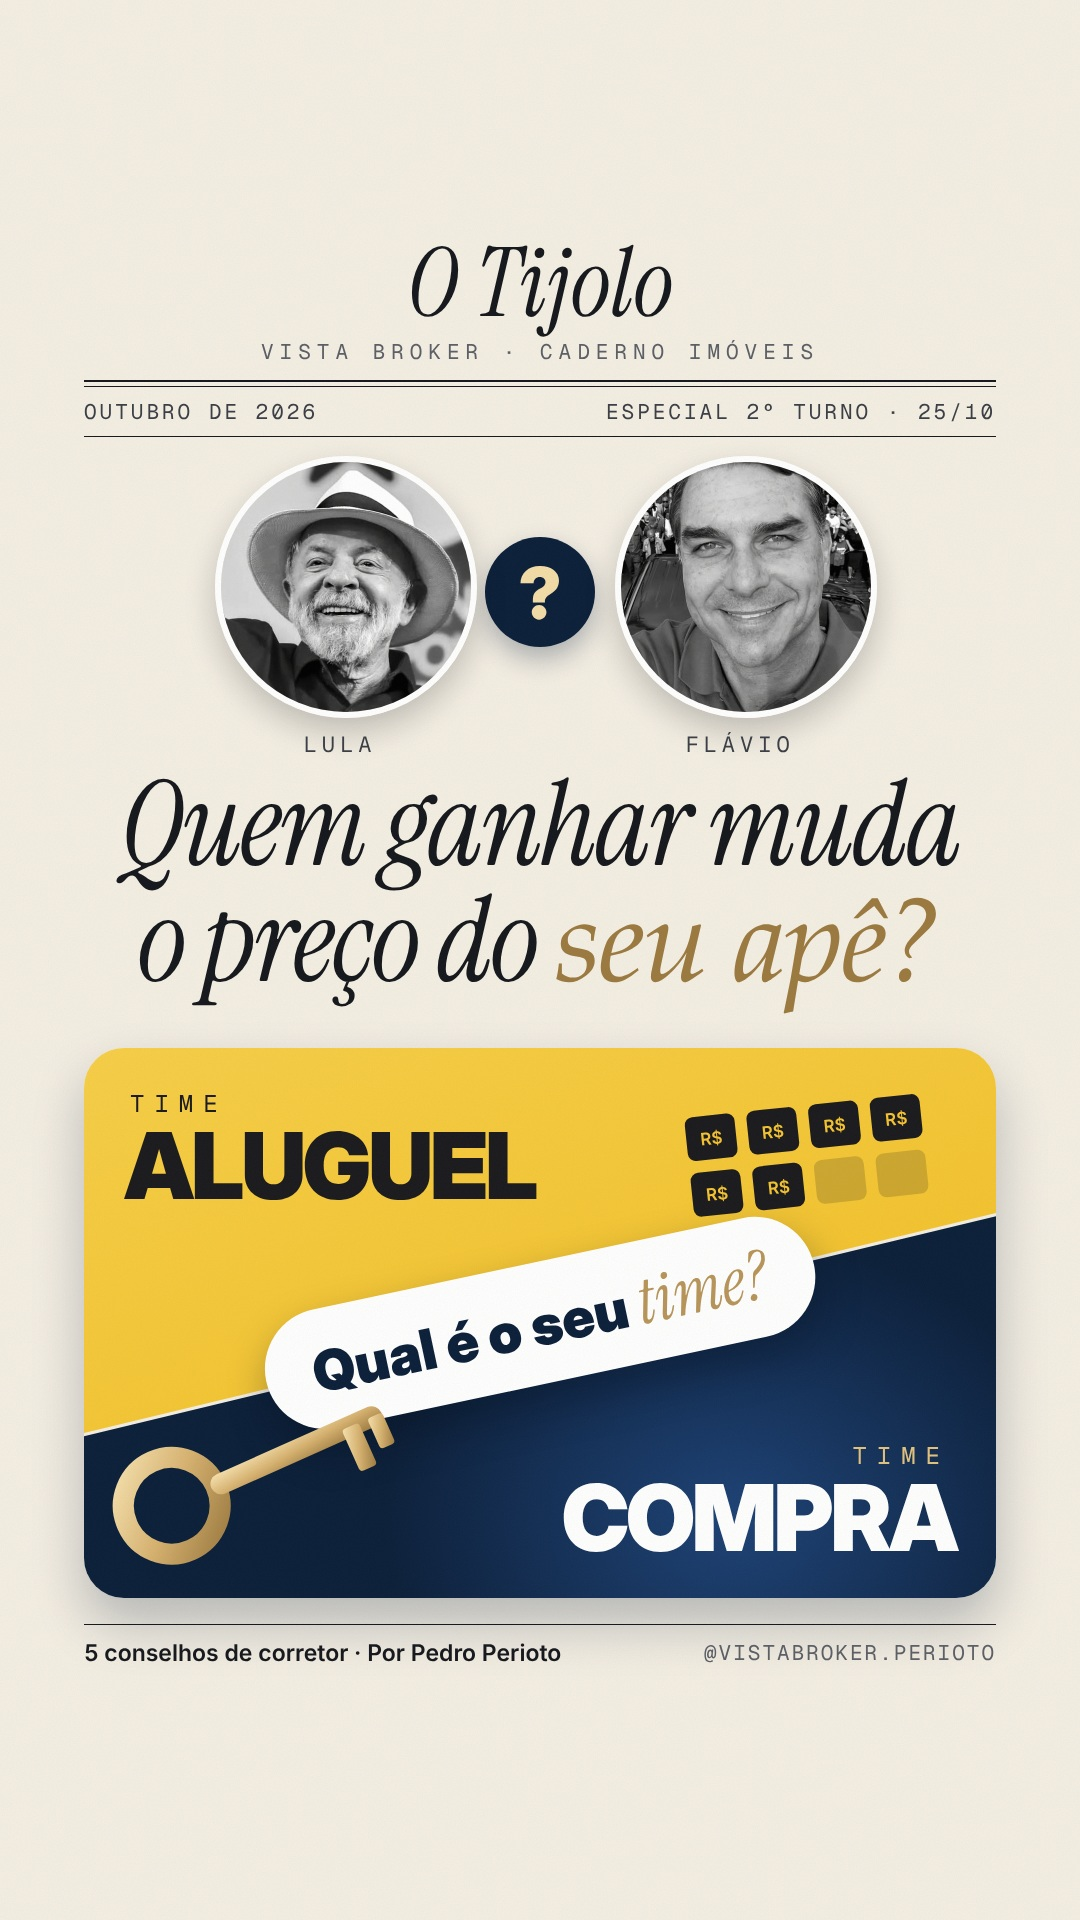
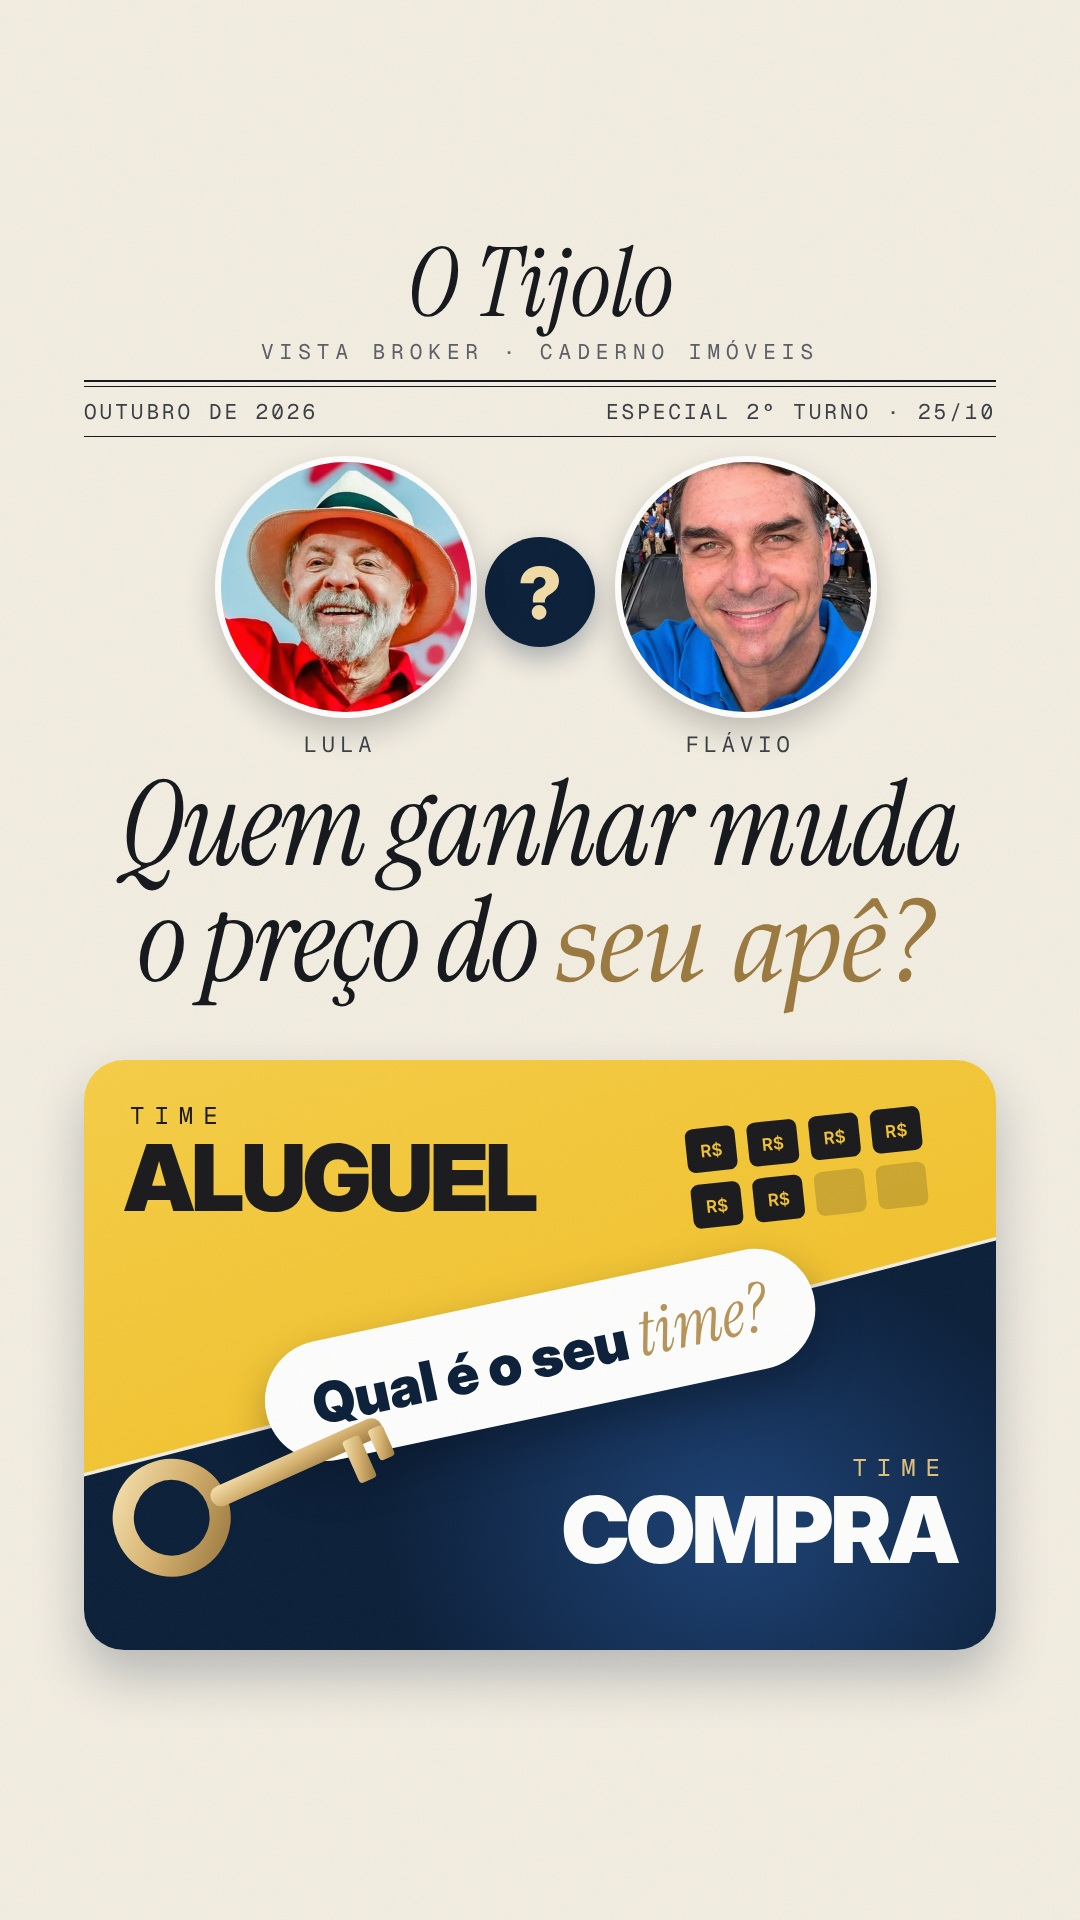
Capa mesclada: fotos coloridas, sem assinatura
Claude-Session: https://claude.ai/code/session_01AXphfDPCpM8hBAPBbDZ7XT

Changed region(s): [[0.0611, 0.5312, 0.9472, 0.875], [0.1833, 0.2188, 0.4583, 0.375], [0.5806, 0.2188, 0.7944, 0.375]]

diff --git a/videos/eleicao-2026-v13/capa/capa_mix.html b/videos/eleicao-2026-v13/capa/capa_mix.html
@@ -18,7 +18,7 @@ html,body{margin:0;width:1080px;height:1920px;overflow:hidden}
 #vs span{width:110px;height:110px;border-radius:50%;background:#0B1F3A;color:#F3DDA8;font:72px IB;display:flex;align-items:center;justify-content:center;box-shadow:0 12px 26px rgba(11,31,58,.3);margin-top:-30px}
 #head{top:768px;text-align:center;font:118px SI;line-height:.98;letter-spacing:-2px}
 #head i{font-family:IT;color:#9C7A40}
-#split{position:absolute;left:84px;right:84px;top:1048px;height:550px;border-radius:40px;overflow:hidden;box-shadow:0 26px 50px rgba(11,31,58,.25)}
+#split{position:absolute;left:84px;right:84px;top:1060px;height:590px;border-radius:40px;overflow:hidden;box-shadow:0 26px 50px rgba(11,31,58,.25)}
 #y{position:absolute;inset:0;background:linear-gradient(160deg,#F7CF48,#F1BC1E);clip-path:polygon(0 0,100% 0,100% 30%,0 70%)}
 #n{position:absolute;inset:0;background:radial-gradient(500px 400px at 650px 470px,#1C4277,#0B1F3A 70%);clip-path:polygon(0 70.6%,100% 30.6%,100% 100%,0 100%)}
 .lab{position:absolute;font:24px MO;letter-spacing:10px}.big{position:absolute;font:92px IB;letter-spacing:-3px;line-height:1}
@@ -44,14 +44,13 @@ svg{position:absolute;inset:0;pointer-events:none}
   <g transform="translate(150,430) rotate(-24) scale(.62)"><circle cx="-110" cy="0" r="78" fill="none" stroke="url(#k)" stroke-width="34"/><rect x="-40" y="-17" width="300" height="34" rx="17" fill="url(#k)"/><rect x="190" y="0" width="30" height="74" rx="6" fill="url(#k)"/><rect x="235" y="0" width="26" height="54" rx="6" fill="url(#k)"/></g>
   <g id="cal" transform="translate(600,70) rotate(-6)"></g></svg>
 </div>
-<div class="abs" id="by"><div>5 conselhos de corretor · Por Pedro Perioto</div><span>@VISTABROKER.PERIOTO</span></div>
 <svg width="1080" height="1920"><filter id="g"><feTurbulence type="fractalNoise" baseFrequency=".85" numOctaves="2"/><feColorMatrix values="0 0 0 0 .25  0 0 0 0 .2  0 0 0 0 .15  0 0 0 .06 0"/></filter><rect width="1080" height="1920" filter="url(#g)"/></svg>
 </div><script>
 // retratos em preto e branco (tom de jornal, sem cor de partido), centrados no rosto
 const FOC={lula:[0.57,0.5,1.5],flavio:[0.52,0.62,1.5]};
 window.done=Promise.all([['a','lula'],['b','flavio']].map(([id,k])=>new Promise(r=>{const im=new Image(); im.onload=()=>{const c=document.getElementById(id),g=c.getContext('2d'),[fx,fy,z]=FOC[k];
   const s=Math.min(im.width,im.height)/z, sx=Math.min(Math.max(fx*im.width-s/2,0),im.width-s), sy=Math.min(Math.max(fy*im.height-s/2,0),im.height-s);
-  g.filter='grayscale(1) contrast(1.08) brightness(1.04)'; g.drawImage(im,sx,sy,s,s,0,0,500,500); r();}; im.src='../fotos/'+k+'.jpg';})));
+  g.filter='saturate(1.05) contrast(1.03)'; g.drawImage(im,sx,sy,s,s,0,0,500,500); r();}; im.src='../fotos/'+k+'.jpg';})));
 let h=''; for(let r=0;r<2;r++)for(let c=0;c<4;c++){const x=c*62,y=r*56,on=r*4+c<6; h+=`<rect x="${x}" y="${y}" width="50" height="44" rx="8" fill="#1A1A1E" opacity="${on?1:.18}"/>`+(on?`<text x="${x+25}" y="${y+29}" text-anchor="middle" font-family="IS" font-size="17" fill="#F4C430">R$</text>`:'');}
 document.getElementById('cal').innerHTML=h;
 </script></body></html>
